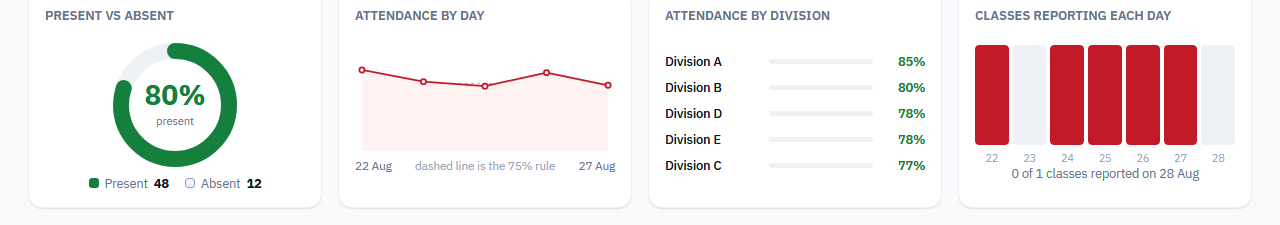
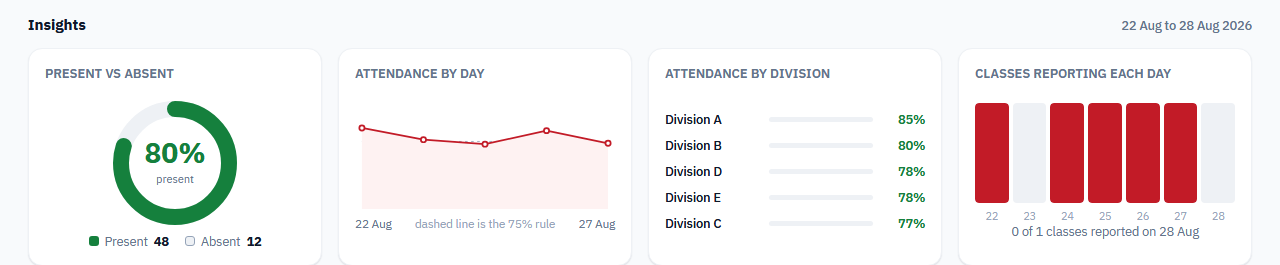
Give the README's charts their own section

diff --git a/README.md b/README.md
@@ -19,13 +19,19 @@ Live: <https://adypu-academic-dashboard.fast-page.org/>
   breakdown names the dates behind every average.
 - **Drill down and everything follows.** Pick a school, year, branch or a single
   division; the summary, breadcrumb and all four charts rescope to it.
-- **Charts with no chart library.** Present against absent, attendance per day
-  against the 75% rule, a ranked comparison one level below your selection, and
-  how many classes filed a form each day.
 - **Export as PDF.** The page prints itself as a dated report, named after the
   breadcrumb, showing only the school in view.
 
 ![Drilling down to a division](docs/screenshots/drilldown.png)
+
+## Insights
+
+Four charts, all hand-drawn SVG and CSS, no chart library. They rescope with the
+drill-down and cover the range you picked: present against absent, attendance
+per day against the university's 75% rule, a ranked comparison of whatever sits
+one level below your selection, and how many classes filed a form each day. That
+last one is the honesty check, since a great percentage resting on three forms
+should look like exactly that.
 
 ![The four charts](docs/screenshots/insights.png)
 
